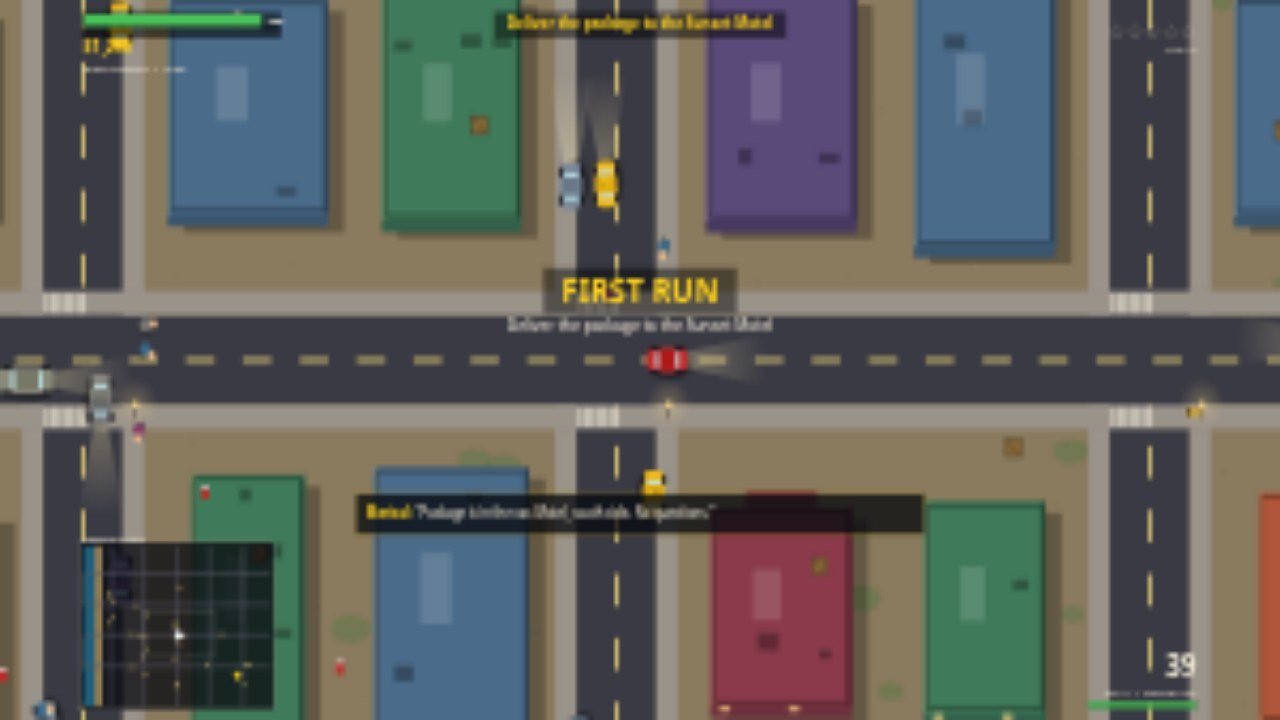
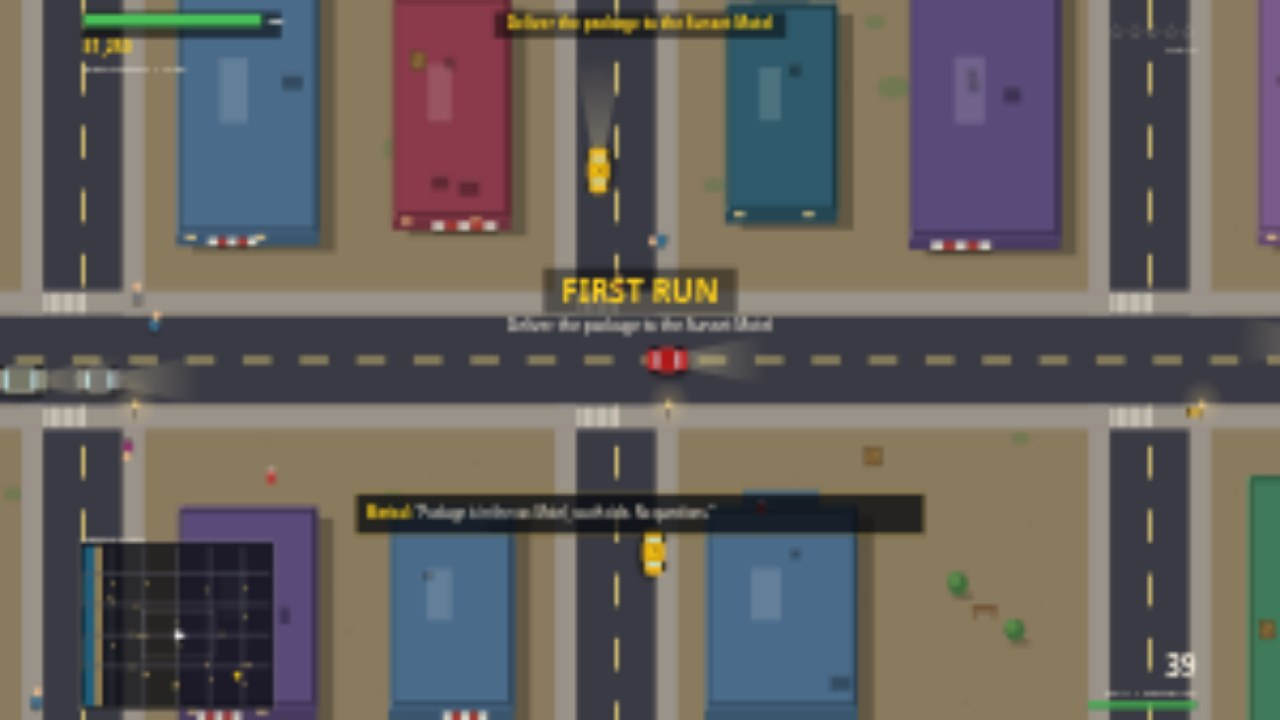
Phase 2: M2-M4 end-to-end, traffic fixes, light art pass
- Missions 2-4 now drive end-to-end (harness playtest-gta-missions.cjs):
  dedupe route waypoints, line-following final approaches, turn-aware
  waypoint advance; game fixes: parked cars spawn spread across the city,
  parked cars take collision damage only from the player, police rams are
  discrete hits (8 dmg / 1.5 s), oriented car collisions so adjacent-lane
  passing is clean, police rear-ends no longer double-charge collision
  damage on top of the ram.
- Traffic: yield rule no longer counts parked cars (a parked car near a
  junction froze the whole system), unstick timer runs while queued, and
  junction turns now put the car in the lane matching its direction
  (independent lane/dir rolls caused head-on deadlocks).
- Art: striped awnings, 3 landmark towers with beacons, animated sea
  shimmer, subtle 4-minute day-phase tint. Screenshots re-taken.

diff --git a/game/src/cars.js b/game/src/cars.js
@@ -4,7 +4,7 @@
 import { S } from './state.js';
 import { CAR_TYPES, WORLD_W, WORLD_H, ROADS_V, ROADS_H, ROAD_HALF, LANE } from './config.js';
 import { clamp, dist, angleDiff, turnToward, pick } from './utils.js';
-import { collideBuildings, clampToWorld, CITY } from './city.js';
+import { collideBuildings, clampToWorld, CITY, nearestRoadCenter } from './city.js';
 import { sfx } from './audio.js';
 
 let carRngState = 987654321;
@@ -37,6 +37,7 @@ export function createCar(type, x, y, angle, opts = {}) {
     targetX: 0, targetY: 0,
     damaged: 0,
     smoke: 0,
+    ramCd: 0, // cooldown between ram hits on the player's car
   };
   S.nextCarId += 1;
   S.cars.push(car);
@@ -137,7 +138,54 @@ export function explodeCar(car) {
 export function updateTrafficCar(car, dt) {
   const t = CAR_TYPES[car.type];
   const ahead = carAheadBlocked(car);
-  const targetSpeed = ahead ? 0 : car.cruise;
+  // Intersection yield: if I am near a crossing and another car is already
+  // inside it and closer to its centre than I am, wait for it to clear.
+  let yieldStop = false;
+  for (const vx of ROADS_V) {
+    if (Math.abs(car.x - vx) > 130) continue;
+    for (const hy of ROADS_H) {
+      if (Math.abs(car.y - hy) > 130) continue;
+      const myD = Math.hypot(car.x - vx, car.y - hy);
+      for (const o of S.cars) {
+        // Parked cars count as "inside the crossing" forever — a parked car
+        // near a junction used to freeze every car approaching it, since the
+        // yield never cleared and the unstick timer never ran while stopped.
+        if (o === car || o.hp <= 0 || o.parked) continue;
+        const od = Math.hypot(o.x - vx, o.y - hy);
+        if (od < 75 && od < myD - 12) { yieldStop = true; break; }
+      }
+      if (yieldStop) break;
+    }
+    if (yieldStop) break;
+  }
+  const targetSpeed = (ahead || yieldStop) ? 0 : car.cruise;
+  // Unstick: a car that wants to move but has not moved for 4 s (wedged on a
+  // parked car, a corner, or another stalled car) re-routes onto the nearest
+  // road instead of blocking the street forever. The timer runs whenever the
+  // car is stopped, not only when its target speed is positive — a car
+  // queued behind a stalled car has target speed 0 and would otherwise
+  // wait forever for a queue that never moves.
+  if (Math.abs(car.speed) < 8) {
+    car.stuckTimer += dt;
+    if (car.stuckTimer > 4) {
+      const road = nearestRoadCenter(car.x, car.y);
+      car.stuckTimer = 0;
+      if (road.axis === 'v') {
+        car.roadAxis = 'v'; car.roadLine = road.line;
+        car.dir = carRand() < 0.5 ? 1 : -1;
+        car.x = road.line + (car.dir > 0 ? LANE : -LANE);
+        car.angle = car.dir > 0 ? Math.PI / 2 : -Math.PI / 2;
+      } else {
+        car.roadAxis = 'h'; car.roadLine = road.line;
+        car.dir = carRand() < 0.5 ? 1 : -1;
+        car.y = road.line + (car.dir > 0 ? LANE : -LANE);
+        car.angle = car.dir > 0 ? 0 : Math.PI;
+      }
+      car.speed = car.cruise * 0.5;
+    }
+  } else {
+    car.stuckTimer = 0;
+  }
   car.speed += clamp(targetSpeed - car.speed, -t.brake * dt, t.accel * 0.6 * dt);
   // Desired heading: along the road in `dir`, in the right-hand lane.
   let wantAngle;
@@ -189,10 +237,14 @@ function chooseNewRoad(car) {
       const d = Math.abs(car.y - hy);
       if (d < bd) { bd = d; best = hy; }
     }
+    // The lane must match the direction: the lane was rolled independently
+    // of the direction, so half of all turns put a car in the oncoming lane
+    // and it met the traffic there nose-to-nose — a deadlock the unstick
+    // timer could only break by luck.
     car.roadAxis = 'h';
     car.roadLine = best;
-    car.y = best + (carRand() < 0.5 ? LANE : -LANE);
     car.dir = carRand() < 0.5 ? 1 : -1;
+    car.y = best + (car.dir > 0 ? LANE : -LANE);
     car.angle = car.dir > 0 ? 0 : Math.PI;
   } else {
     let best = ROADS_V[0], bd = Infinity;
@@ -202,8 +254,8 @@ function chooseNewRoad(car) {
     }
     car.roadAxis = 'v';
     car.roadLine = best;
-    car.x = best + (carRand() < 0.5 ? LANE : -LANE);
     car.dir = carRand() < 0.5 ? 1 : -1;
+    car.x = best + (car.dir > 0 ? LANE : -LANE);
     car.angle = car.dir > 0 ? Math.PI / 2 : -Math.PI / 2;
   }
 }
@@ -231,16 +283,46 @@ export function resolveCarCollisions() {
       if (b.hp <= 0) continue;
       const dx = b.x - a.x, dy = b.y - a.y;
       const d = Math.sqrt(dx * dx + dy * dy);
-      const minD = (carLength(a) + carLength(b)) / 2 * 0.85;
-      if (d > 0 && d < minD) {
-        const push = (minD - d) / 2;
+      // Oriented overlap: a car is 46 long but only 24 wide, so two cars in
+      // adjacent lanes (centres 22px apart — a parked car next to the traffic
+      // lane) pass cleanly, while a nose-to-tail or head-on overlap still
+      // collides. The old radial check treated every passing car as a crash:
+      // driving down a street cost the player ~9 hp per parked car passed.
+      const ca = Math.cos(a.angle), sa = Math.sin(a.angle);
+      const along = Math.abs(dx * ca + dy * sa);
+      const across = Math.abs(-dx * sa + dy * ca);
+      const minAlong = (carLength(a) + carLength(b)) / 2 * 0.85;
+      const minAcross = (carWidth(a) + carWidth(b)) / 2 * 0.85;
+      // The single-frame oriented test underestimates overlap when two cars
+      // meet at an angle (a diagonal graze can read "clear" in A's frame
+      // while the rectangles intersect). Centres closer than one car width
+      // always overlap, whatever the angle — catch that too.
+      const oriented = along < minAlong && across < minAcross;
+      const tooClose = d < (carWidth(a) + carWidth(b)) / 2 * 0.85;
+      if (d > 0 && (oriented || tooClose)) {
+        const push = oriented
+          ? (minAlong - along + minAcross - across) / 4
+          : ((carWidth(a) + carWidth(b)) / 2 * 0.85 - d) / 2;
         const nx = dx / d, ny = dy / d;
-        a.x -= nx * push; a.y -= ny * push;
-        b.x += nx * push; b.y += ny * push;
+        // A parked car is immovable: passing traffic slides past it instead
+        // of shoving it down the street (and off its mission marker).
+        if (!a.parked) { a.x -= nx * push; a.y -= ny * push; }
+        if (!b.parked) { b.x += nx * push; b.y += ny * push; }
+        if (a.parked && !b.parked) { b.x += nx * push; b.y += ny * push; }
+        if (b.parked && !a.parked) { a.x -= nx * push; a.y -= ny * push; }
         const rel = Math.abs(a.speed - b.speed);
-        if (rel > 140) {
-          damageCar(a, rel * 0.03, null);
-          damageCar(b, rel * 0.03, null);
+        // A police cruiser rear-ending the player's car must not also deal
+        // generic collision damage: the ram IS the collision damage, and
+        // the two together ground a getaway car down in seconds.
+        const playerPolice = (a.driver === 'player' && b.ai === 'police') || (b.driver === 'player' && a.ai === 'police');
+        if (rel > 140 && !playerPolice) {
+          // A parked car only takes collision damage from the player's own
+          // car. AI drivers (traffic, police cruisers mid-chase) ploughing
+          // through the street would otherwise chew every parked car — the
+          // mission cars included — down to a wreck before the player
+          // reaches them. The moving car still takes its own damage.
+          if (!(a.parked && b.driver !== 'player')) damageCar(a, rel * 0.03, null);
+          if (!(b.parked && a.driver !== 'player')) damageCar(b, rel * 0.03, null);
           const av = (a.speed + b.speed) / 2;
           a.speed = av; b.speed = av;
           S.shake = Math.max(S.shake, 2);
@@ -275,8 +357,12 @@ export function spawnTraffic(count) {
 
 export function spawnParked(count) {
   const spots = [...CITY.parkingSpots];
-  for (let i = 0; i < Math.min(count, spots.length); i += 1) {
-    const s = spots[i];
+  // Spread the parked cars evenly across the spot list (it is ordered by
+  // road, so taking the first N would cluster them all in the west and leave
+  // Harbor East — and the Harbor Bank — with no car to steal).
+  const n = Math.min(count, spots.length);
+  for (let i = 0; i < n; i += 1) {
+    const s = spots[Math.floor((i + 0.5) * spots.length / n)];
     createCar(s.type, s.x, s.y, s.angle, { ai: null, parked: true });
   }
 }

diff --git a/game/src/render.js b/game/src/render.js
@@ -42,6 +42,15 @@ export function drawWorld(ctx) {
   drawParticles(ctx);
   drawFloaters(ctx);
   ctx.restore();
+  // Day phase: the light drifts slowly between golden hour and dusk on a
+  // four-minute cycle — warm while the sun is up, a cool violet as it sets.
+  // Kept faint (<=5%) so it never fights readability; the HUD is drawn after
+  // this and stays untinted.
+  const ph = Math.sin(S.time * Math.PI * 2 / 240);
+  ctx.fillStyle = ph >= 0
+    ? `rgba(255,150,60,${(ph * 0.05).toFixed(3)})`
+    : `rgba(70,50,140,${(-ph * 0.04).toFixed(3)})`;
+  ctx.fillRect(0, 0, VIEW_W, VIEW_H);
   // District name flash when the camera crosses into a new district is drawn by the HUD.
 }
 
@@ -65,6 +74,17 @@ function drawGround(ctx, left, top) {
   }
   ctx.fillStyle = PAL.sand;
   ctx.fillRect(220, -40, 100, WORLD_H + 80);
+  // Water shimmer: light streaks drifting on the sea, each pulsing on its
+  // own phase so the surface never looks frozen.
+  ctx.lineWidth = 2;
+  for (const s of CITY.seaSparkles) {
+    const a = 0.10 + 0.14 * (0.5 + 0.5 * Math.sin(S.time * s.speed + s.phase));
+    ctx.strokeStyle = `rgba(255,240,200,${a.toFixed(3)})`;
+    ctx.beginPath();
+    ctx.moveTo(s.x, s.y + Math.sin(S.time * 0.7 + s.phase) * 3);
+    ctx.lineTo(s.x + s.len, s.y + Math.sin(S.time * 0.7 + s.phase) * 3);
+    ctx.stroke();
+  }
   // Block ground: grass tufts and speckles so the lots are not flat paper.
   for (const t of CITY.grassTufts) {
     ctx.fillStyle = 'rgba(90,120,70,0.5)';
@@ -162,6 +182,34 @@ function drawBuildings(ctx) {
       ctx.fillRect(b.x + b.w * 0.25, b.y - 16, b.w * 0.5, 16);
       ctx.fillStyle = b.roof;
       ctx.fillRect(b.x + b.w * 0.25, b.y - 16, b.w * 0.5, 10);
+    }
+    // Landmark towers: three-tier setback with a blinking beacon.
+    if (b.landmark) {
+      ctx.fillStyle = b.wall;
+      ctx.fillRect(b.x + b.w * 0.2, b.y - 28, b.w * 0.6, 28);
+      ctx.fillStyle = b.roof;
+      ctx.fillRect(b.x + b.w * 0.2, b.y - 28, b.w * 0.6, 22);
+      ctx.fillStyle = b.wall;
+      ctx.fillRect(b.x + b.w * 0.35, b.y - 40, b.w * 0.3, 14);
+      ctx.fillStyle = b.roof;
+      ctx.fillRect(b.x + b.w * 0.35, b.y - 40, b.w * 0.3, 10);
+      const blink = 0.4 + 0.6 * (0.5 + 0.5 * Math.sin(S.time * 3));
+      ctx.fillStyle = `rgba(255,60,60,${blink.toFixed(3)})`;
+      ctx.beginPath();
+      ctx.arc(b.x + b.w * 0.5, b.y - 42, 3, 0, Math.PI * 2);
+      ctx.fill();
+    }
+    // Striped awning over the door on the south face.
+    if (b.awning) {
+      const ax = b.x + b.w * b.awnX, aw = b.w * b.awnW, ay = b.y + b.h - 2;
+      ctx.fillStyle = 'rgba(0,0,0,0.25)';
+      ctx.fillRect(ax + 2, ay + 2, aw, 9);
+      for (let i = 0; i < 5; i += 1) {
+        ctx.fillStyle = i % 2 === 0 ? 'rgba(240,235,220,0.9)' : 'rgba(180,60,50,0.9)';
+        ctx.fillRect(ax + (aw / 5) * i, ay, aw / 5, 8);
+      }
+      ctx.fillStyle = 'rgba(0,0,0,0.3)';
+      ctx.fillRect(ax, ay + 8, aw, 2);
     }
   }
 }

diff --git a/game/src/city.js b/game/src/city.js
@@ -65,9 +65,12 @@ export function generateCity() {
           });
         }
         CITY.buildings.push({
-          x, y, w, h, roof: PAL.buildingRoof[colorIdx], wall: PAL.buildingWall[colorIdx],
+          x, y, w, h, cellY0: b.y0, roof: PAL.buildingRoof[colorIdx], wall: PAL.buildingWall[colorIdx],
           tall: rng() < 0.3, // tall towers get a drawn height
           lit: rng() < 0.6,
+          // Striped awning over the door on the south face.
+          awning: rng() < 0.35,
+          awnX: 0.1 + rng() * 0.4, awnW: 0.3 + rng() * 0.25,
           vents,
           id: bi,
         });
@@ -75,6 +78,12 @@ export function generateCity() {
       }
     }
   }
+
+  // Landmark towers: the three largest buildings with room to grow north get
+  // a three-tier setback + beacon, so Downtown reads at a glance.
+  const cands = CITY.buildings.filter((b) => b.y - (b.cellY0 ?? 0) > 40)
+    .sort((a, b) => b.w * b.h - a.w * a.h).slice(0, 3);
+  for (const b of cands) b.landmark = true;
 
   // Landmarks (named places used by missions and the HUD).
   CITY.landmarks = {
@@ -108,6 +117,16 @@ export function generateCity() {
       kind: rng() < 0.6 ? 'crate' : 'hydrant',
       x: range(rng, b.x0 + 10, b.x1 - 10),
       y: range(rng, b.y0 + 10, b.y1 - 10),
+    });
+  }
+
+  // Sea shimmer: precomputed sparkle streaks on the west coast, animated by
+  // the render loop so the water reads as moving.
+  CITY.seaSparkles = [];
+  for (let i = 0; i < 48; i += 1) {
+    CITY.seaSparkles.push({
+      x: 8 + rng() * 200, y: rng() * WORLD_H,
+      len: 8 + rng() * 22, phase: rng() * Math.PI * 2, speed: 0.5 + rng() * 1.6,
     });
   }
 

diff --git a/game/src/police.js b/game/src/police.js
@@ -3,7 +3,7 @@
 import { S } from './state.js';
 import { WORLD_W, WORLD_H, ROADS_V, ROADS_H } from './config.js';
 import { clamp, dist, angleTo, turnToward, pick } from './utils.js';
-import { createCar, carLength } from './cars.js';
+import { createCar, carLength, damageCar } from './cars.js';
 import { collideBuildings, clampToWorld, nearestRoadCenter } from './city.js';
 import { sfx } from './audio.js';
 
@@ -135,13 +135,18 @@ export function updatePoliceCar(car, dt) {
   }
   // Line of sight: police within 700px and roughly facing the player see them.
   if (d < 700) S.lastSeenAt = S.time;
-  // Ram the player: if the player is in a car, damage it; if on foot, hurt them.
+  // Ram the player: a discrete hit with a cooldown, not a continuous grind —
+  // cruisers piling on at full rate destroyed a car in under two seconds,
+  // which made a 3-star getaway unwinnable in anything but the fastest car.
+  if (car.ramCd > 0) car.ramCd -= dt;
   if (d < 40) {
     if (p.inCar) {
-      const pc = p.inCar;
-      pc.hp -= 24 * dt;
-      S.shake = Math.max(S.shake, 2);
-      car.speed *= 0.85;
+      if (car.ramCd <= 0) {
+        damageCar(p.inCar, 8, car);
+        car.ramCd = 1.5;
+        S.shake = Math.max(S.shake, 2);
+        car.speed *= 0.85;
+      }
     } else if (p.invuln <= 0) {
       p.hp -= 40 * dt;
       p.invuln = 0.4;

diff --git a/game/src/peds.js b/game/src/peds.js
@@ -90,6 +90,27 @@ export function updatePeds(dt) {
       p.fleeTimer -= dt;
       if (p.fleeTimer <= 0) p.state = 'walk';
     }
+    // Dodge a fast car bearing down on the crosswalk: step off its path
+    // instead of strolling into a hit-and-run (and another wanted star).
+    if (p.state !== 'down' && p.state !== 'flee') {
+      for (const c of S.cars) {
+        if (c.hp <= 0 || Math.abs(c.speed) < 150) continue;
+        const dx = p.x - c.x, dy = p.y - c.y;
+        const d = Math.hypot(dx, dy);
+        if (d > 190 || d < 1) continue;
+        const fx = Math.cos(c.angle), fy = Math.sin(c.angle);
+        const toward = (dx * fx + dy * fy) / d; // 1 = car heading straight at the ped
+        if (toward > 0.55) {
+          p.state = 'flee';
+          p.fleeTimer = 1.6;
+          // Step perpendicular to the car's path, away from the road centre.
+          const side = (dx * -fy + dy * fx) > 0 ? 1 : -1;
+          p.tx = p.x + -fy * 130 * side;
+          p.ty = p.y + fx * 130 * side;
+          break;
+        }
+      }
+    }
     const d = dist(p.x, p.y, p.tx, p.ty);
     if (d < 12) {
       // Pick a new stroll target: along the sidewalk of a random road.
